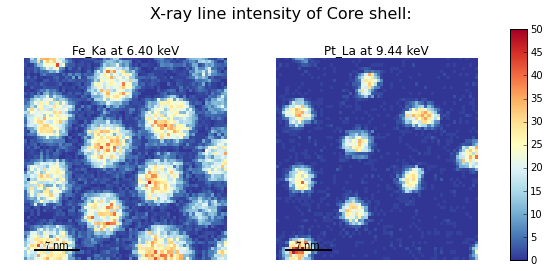
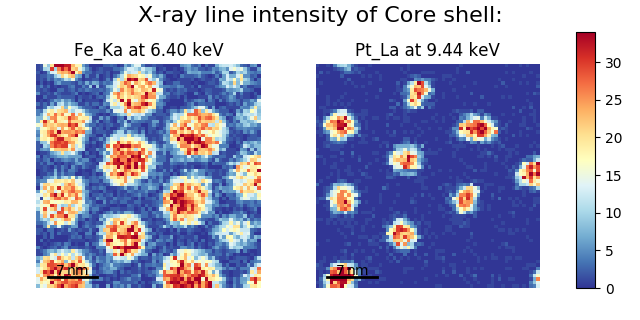
Update user guide to include description of new cmap functionality in plot_images

diff --git a/doc/user_guide/visualisation.rst b/doc/user_guide/visualisation.rst
@@ -548,8 +548,92 @@ which is used to call subplots_adjust method of matplotlib
 .. NOTE::
 
     This padding can also be changed interactively by clicking on the
-    |subplots_adjust| button in the GUI (button may be different when
-    using different graphical backends).
+    |subplots_adjust| button in the GUI (button may be different when using
+    different graphical backends).
+
+Finally, the ``cmap`` option of :py:func:`~.drawing.utils.plot_images`
+supports iterable types, allowing the user to specify different colormaps
+for the different images that are plotted by providing a list or other
+generator:
+
+.. code-block:: python
+
+    >>> si_EDS = hs.load("core_shell.hdf5")
+    >>> im = si_EDS.get_lines_intensity()
+    >>> hs.plot.plot_images(hs.transpose(im[0], im[1]),
+    >>>    tight_layout=True, cmap=['viridis', 'plasma'], axes_decor='off',
+    >>>    colorbar='multi', saturated_pixels=2, scalebar=[0],
+    >>>    scalebar_color='white', suptitle_fontsize=16)
+
+.. figure::  images/plot_images_eds_cmap_list.png
+  :align:   center
+  :width:   500
+
+  Using :py:func:`~.drawing.utils.plot_images` to plot the output of
+  :py:meth:`~._signals.eds.EDS_mixin.get_lines_intensity` using a unique
+  colormap for each image.
+
+The ``cmap`` argument can also be given as ``'mpl_colors'``, and as a result,
+the images will be plotted with colormaps generated from the default
+``matplotlib`` colors, which is very helpful when plotting multiple spectral
+signals and their relative intensities (such as the results of a
+:py:func:`~.learn.mva.decomposition` analysis). This example uses
+:py:func:`~.drawing.utils.plot_spectra`, which is explained in the
+`next section`__.
+
+__ plot.spectra_
+
+.. code-block:: python
+
+    >>> si_EDS = hs.load("core_shell.hdf5")
+    >>> si_EDS.change_dtype('float')
+    >>> si_EDS.decomposition(True, algorithm='nmf', output_dimension=3)
+    >>> factors = si_EDS.get_decomposition_factors()
+    >>>
+    >>> # the first factor is a very strong carbon background component, so we
+    >>> # normalize factor intensities for easier qualitative comparison
+    >>> for f in factors:
+    >>>     f.data /= f.data.max()
+    >>>
+    >>> loadings = si_EDS.get_decomposition_loadings()
+    >>>
+    >>> hs.plot.plot_spectra(factors.isig[:14.0], style='cascade',
+    >>>                      padding=-1)
+    >>>
+    >>> # add some lines to nicely label the peak positions
+    >>> plt.axvline(6.403, c='C2', ls=':', lw=0.5)
+    >>> plt.text(x=6.503, y=0.85, s='Fe-K$_\\alpha$', color='C2')
+    >>> plt.axvline(9.441, c='C1', ls=':', lw=0.5)
+    >>> plt.text(x=9.541, y=0.85, s='Pt-L$_\\alpha$', color='C1')
+    >>> plt.axvline(2.046, c='C1', ls=':', lw=0.5)
+    >>> plt.text(x=2.146, y=0.85, s='Pt-M', color='C1')
+    >>> plt.axvline(8.040, ymax=0.8, c='k', ls=':', lw=0.5)
+    >>> plt.text(x=8.14, y=0.35, s='Cu-K$_\\alpha$', color='k')
+    >>>
+    >>> hs.plot.plot_images(loadings, cmap='mpl_colors',
+    >>>             axes_decor='off', per_row=1,
+    >>>             label=['Background', 'Pt core', 'Fe shell'],
+    >>>             scalebar=[0], scalebar_color='white',
+    >>>             padding={'top': 0.95, 'bottom': 0.05,
+    >>>                      'left': 0.05, 'right':0.78})
+
+
+.. figure::  images/plot_images_eds_cmap_factors_side_by_side.png
+  :align:   center
+  :width:   500
+
+  Using :py:func:`~.drawing.utils.plot_images` with ``cmap='mpl_colors'``
+  together with :py:func:`~.drawing.utils.plot_spectra` to visualize the
+  output of a non-negative matrix factorization of the EDS data.
+
+
+.. NOTE::
+
+    If a list or other iterable type is given for the ``cmap`` argument
+    together with ``'single'`` for the ``colorbar`` argument, the global
+    colorbar will be created from the last-used colormap, which is probably not
+    desired. Thus, it is recommended to only use ``'multi'`` or ``None`` for
+    the colorbar option when using multiple colormaps.
 
 .. _plot.spectra:
 
